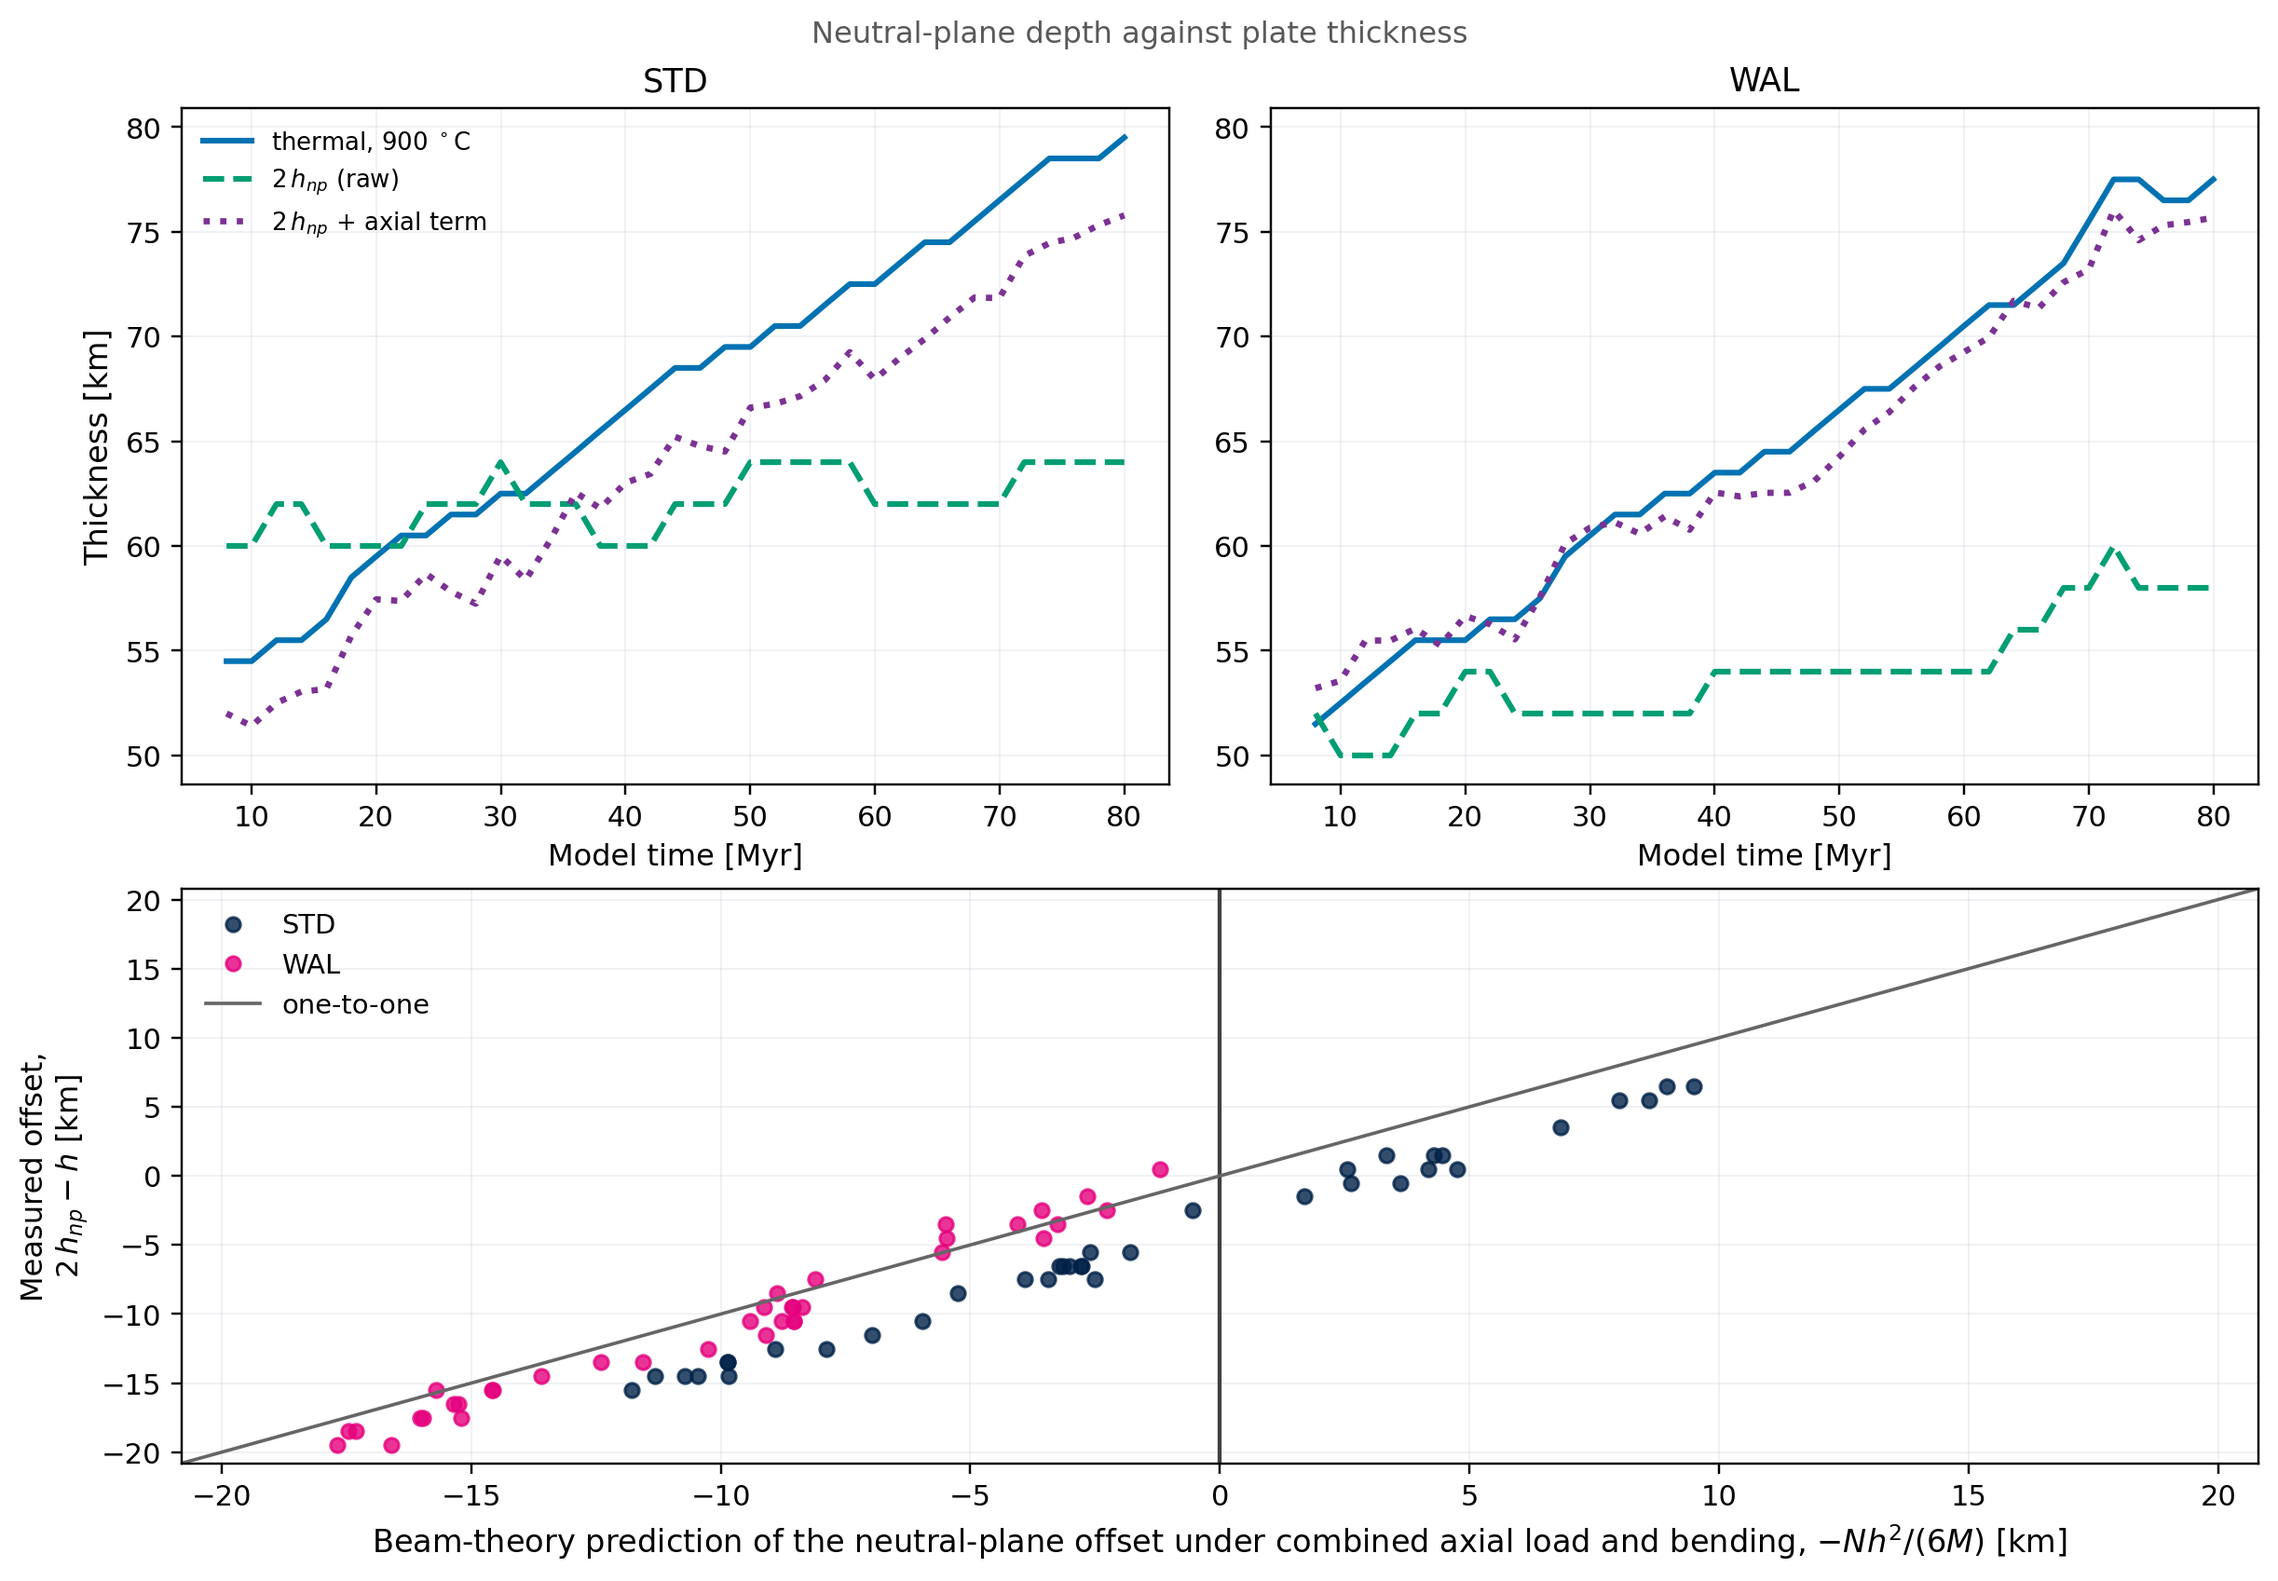
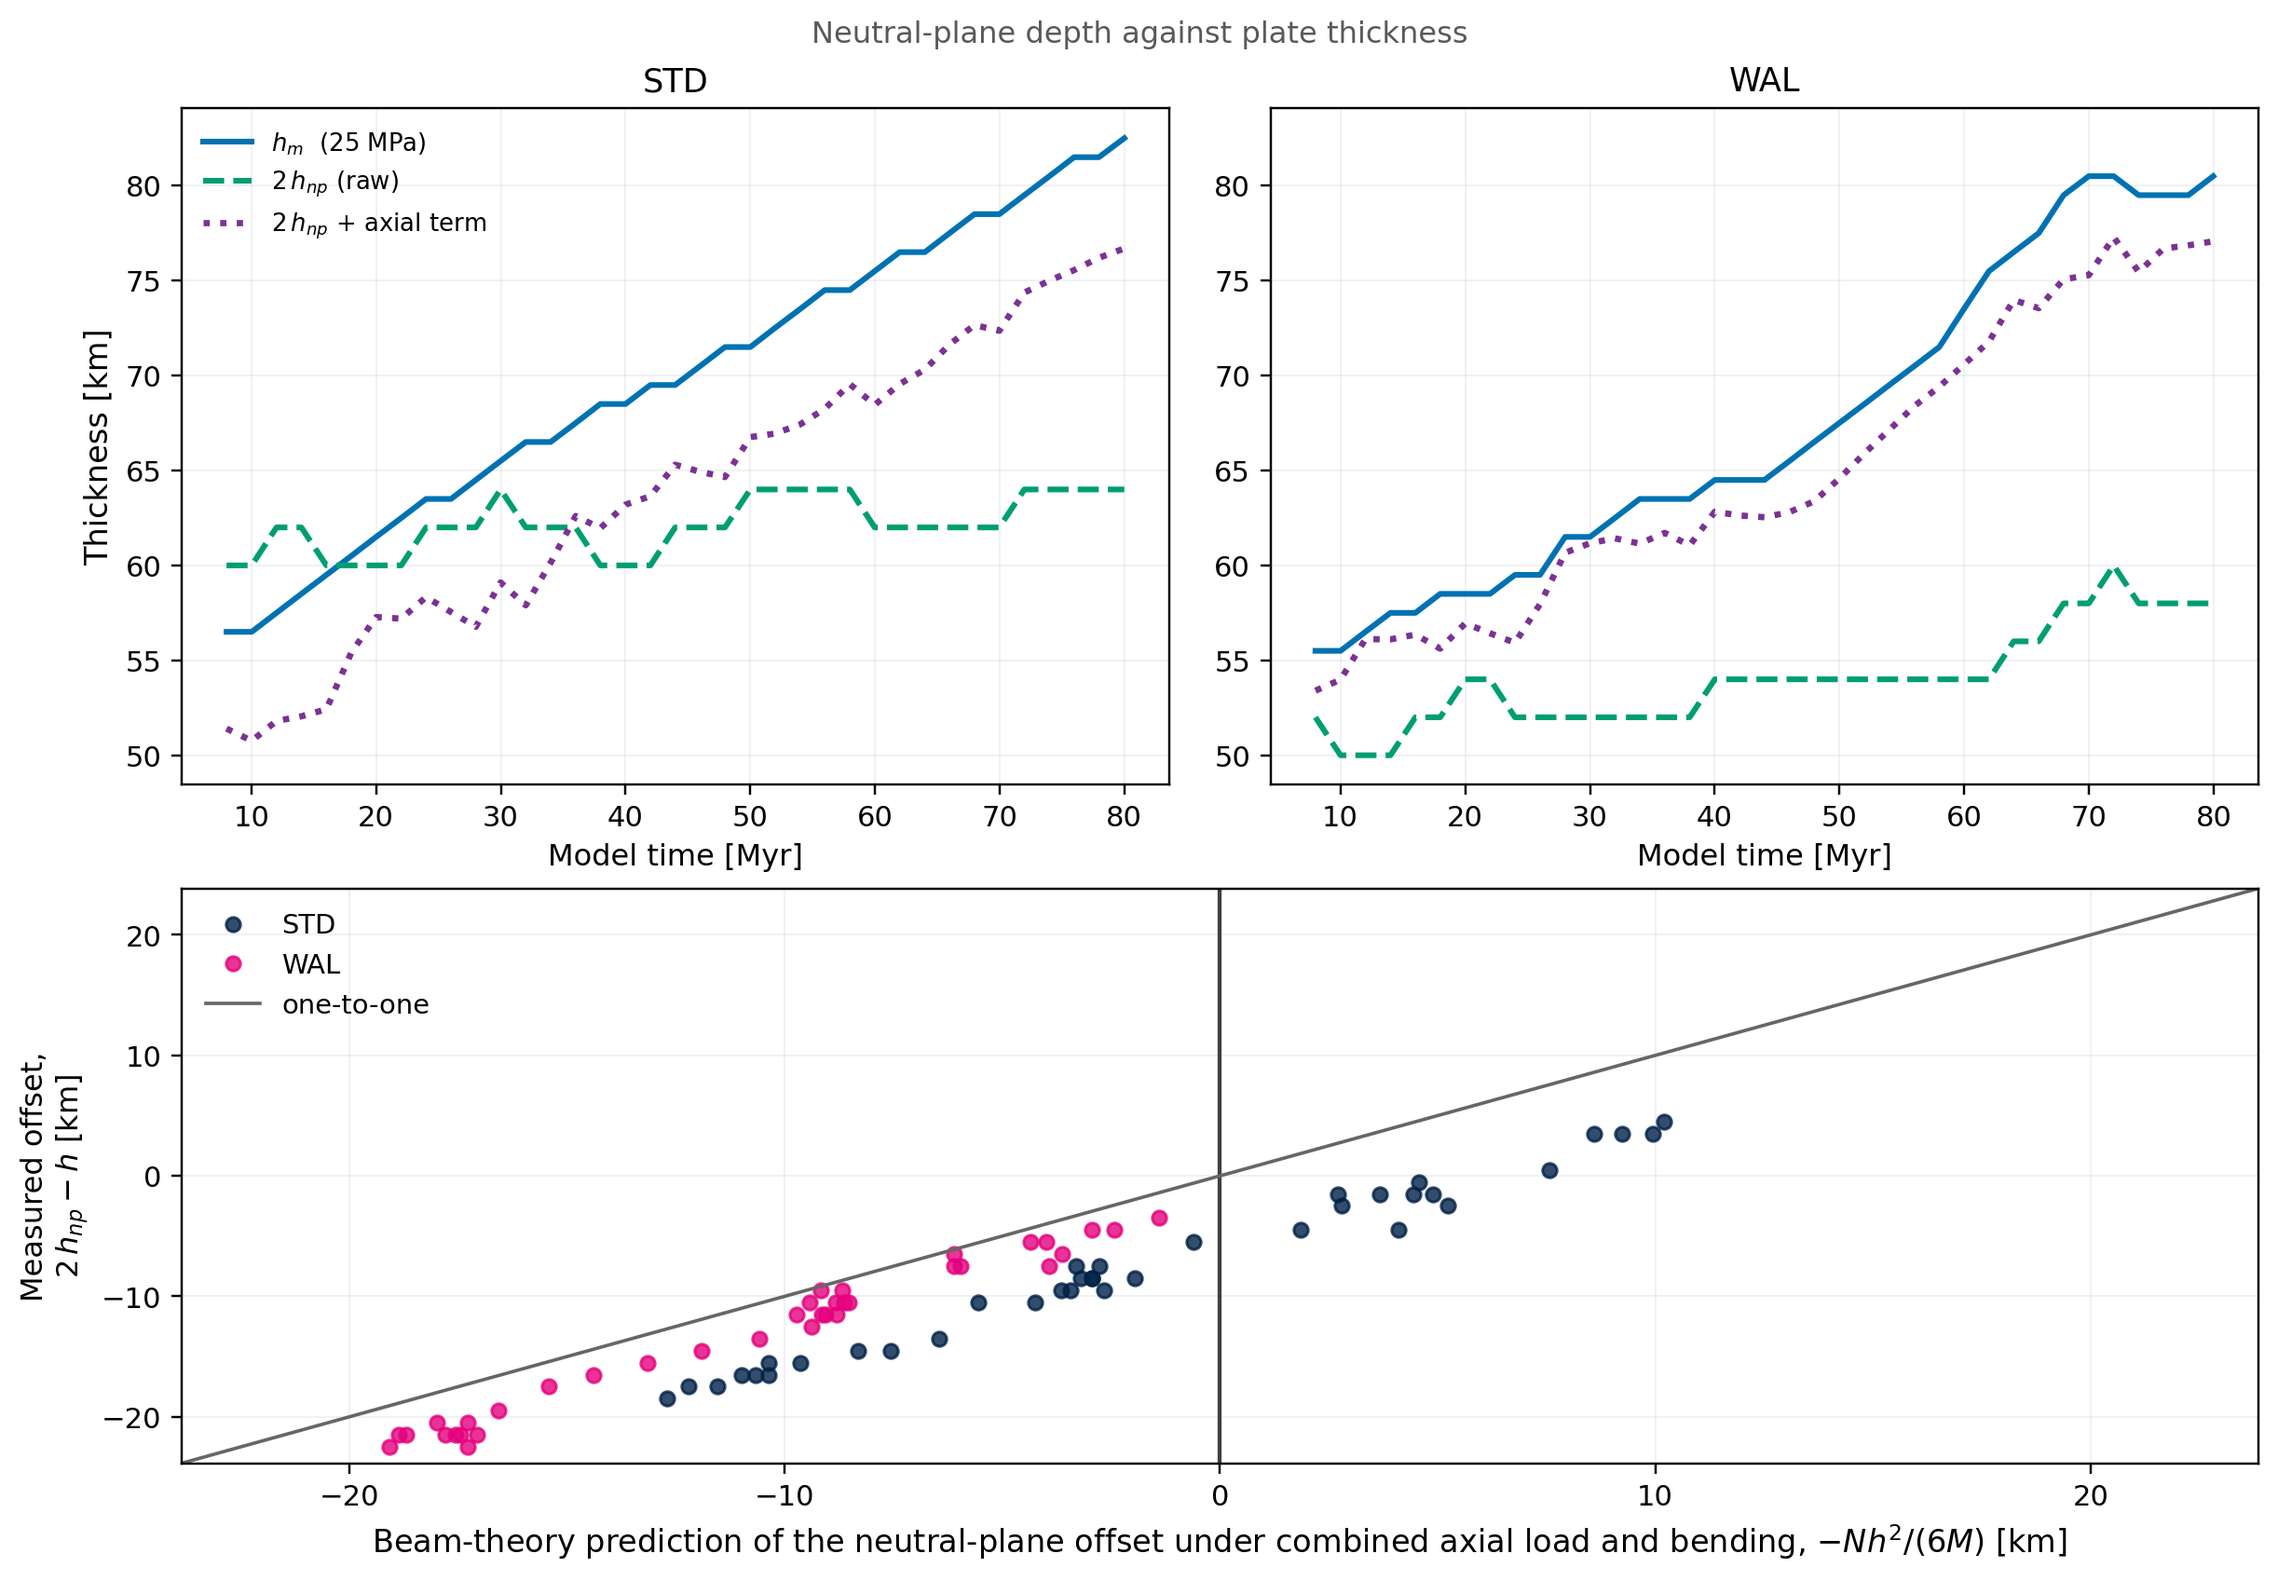
fig_neutral_plane: the beam correction uses h_m, not the 900 C isotherm
Dan, 2026-10-15. Beam theory's h is the thickness of the section that
CARRIES the fibre stress -- M = B h^3/12 is an integral of
sigma_xx - sigma_zz -- so h must be the mechanically strong layer, not an
isotherm. Three reasons the isotherm was wrong here:

  - h_m (25 MPa) is the paper's own adopted definition, used everywhere
    else in the manuscript;
  - the 900 C base is CALIBRATED to that cap at mid-run (conventions
    5.2), so it is a PROXY for h_m rather than an independent thickness.
    It imported calibration error without buying independence, which is
    why the thermal version undershot;
  - with h_m every quantity in the relation comes from the same stress
    field at the same column, which is what the theory assumes.

Measured: the corrected trend now recovers h_m to +0.00 km/10 Myr in STD
(was -0.19 against the thermal curve) and -0.34 in WAL (was -0.40).

ALSO FIXES AN ARITHMETIC ERROR the SI inherited. The tabulated axial term
came from , the h-FROZEN diagnostic used for the correlation check,
while the corrected curve uses per-snapshot h. The three trends therefore
did not add: the SI stated raw 1.04 + axial 1.18 = corrected 3.26 for
WAL, which is false. The term now comes from , the quantity
actually added back, so raw - axial = corrected exactly (0.45 + 3.12 =
3.57; 1.04 + 2.44 = 3.48). The console print took the stale value too
and now matches the table.

diff --git a/scripts/fig_neutral_plane.py b/scripts/fig_neutral_plane.py
@@ -56,13 +56,13 @@ neutral plane as a mechanical thickness -- including the h/2 dipole
 scaling in fig_mechanical_thickness -- this correction applies.
 
   1, 2  the three quantities through time, one panel per model: the
-        thermal thickness, the raw neutral-plane estimate, and the
+        mechanical thickness $h_m$, the raw neutral-plane estimate, and the
         neutral-plane estimate with the axial term added back, which
-        should recover the thermal curve if the relation holds.
+        should recover the $h_m$ curve if the relation holds.
   3     the test: measured offset against beam prediction, with the
         one-to-one line.
 
-DRAFT CAPTION. (a, b) The thermal thickness of the plate (900 C isotherm),
+DRAFT CAPTION. (a, b) The mechanical thickness $h_m$ of the plate (900 C isotherm),
 twice the neutral-plane depth, and twice the neutral-plane depth corrected
 for the axial load by adding N h^2/(6 M), for STD and WAL. All three are
 evaluated at the column of maximum bending moment, with N the
@@ -70,7 +70,7 @@ normal-stress-difference resultant and M the bending moment there. The raw
 neutral-plane estimate grows by 0.5 and 1.1 km per 10 Myr while the
 thermal estimate grows by 3.5 and 3.7; the corrected estimate recovers the
 thermal trend. (c) The measured offset of the neutral-plane estimate from
-the thermal thickness against the offset predicted by beam theory for a
+the mechanical thickness $h_m$ against the offset predicted by beam theory for a
 plate under combined axial load and bending, one point per snapshot, with
 the one-to-one line. The axes are symmetric about zero and the $x = 0$
 line is drawn: the predicted offset is negative -- a compressional axial
@@ -114,7 +114,19 @@ def parts(d, key):
     nd = cpc.integrate_to_zc(d[f'{key}_sxx_M'] - d[f'{key}_szz_M'], z,
                              ZC, axis=1)
     mom = d[f'{key}_M_max']
-    h, np2 = r['thermal'], r['np2']
+    # h_m, NOT THE 900 C ISOTHERM (Dan, 2026-10-15). Beam theory's h is the
+    # thickness of the section that CARRIES the fibre stress: M = B h^3/12
+    # is an integral of sigma_xx - sigma_zz, so h must be the mechanically
+    # strong layer. Three reasons the isotherm was the wrong choice:
+    #   - h_m (25 MPa) is the paper's own adopted definition;
+    #   - the 900 C base is CALIBRATED to that cap at mid-run (conventions
+    #     5.2), so it is a PROXY for h_m, not an independent thickness --
+    #     it imports calibration error without buying independence;
+    #   - with h_m every quantity in the relation comes from the same
+    #     stress field at the same column, which is what the theory assumes.
+    # Measured: the corrected trend then recovers h_m to +0.01 km/10 Myr in
+    # STD (was -0.19 against the $h_m$ curve) and -0.34 in WAL (was -0.40).
+    h, np2 = r['yield_cap'], r['np2']
     pred = -nd * h ** 2 / (6.0 * mom)          # beam offset, 2h_np - h
     return dict(t=t, m=t >= T_MIN_MYR, h=h, np2=np2, nd=nd, mom=mom,
                 pred=pred, res=np2 - h, corr=np2 - pred)
@@ -133,7 +145,7 @@ def main():
         t, m = p['t'], p['m']
         ax = axes[col]
         ax.plot(t[m], p['h'][m] / 1e3, '-', color=C_TH, lw=2.0,
-                label='thermal, 900 $^\\circ$C')
+                label=r'$h_m$  (25 MPa)')
         ax.plot(t[m], p['np2'][m] / 1e3, '--', color=C_NP, lw=2.0,
                 label=r'$2\,h_{np}$ (raw)')
         ax.plot(t[m], p['corr'][m] / 1e3, ':', color=C_CORR, lw=2.2,
@@ -166,9 +178,11 @@ def main():
         s_pool = np.polyfit(pv, rs, 1)[0]
         s_small = np.polyfit(pv[lo_], rs[lo_], 1)[0]
         s_large = np.polyfit(pv[hi_], rs[hi_], 1)[0]
-        print(f'{key}: trends/10 Myr  thermal {sl(p["h"]):+.2f}, 2h_np raw '
+        # the printed axial term is `pred`, the same one the table carries
+        # and the same one that is added back -- NOT the h-frozen `pf`
+        print(f'{key}: trends/10 Myr  h_m {sl(p["h"]):+.2f}, 2h_np raw '
               f'{sl(p["np2"]):+.2f}, corrected {sl(p["corr"]):+.2f} km;  '
-              f'axial term {np.polyfit(t[m], pf, 1)[0]*10/1e3:+.2f};  '
+              f'axial term {sl(p["pred"]):+.2f};  '
               f'beam slope pooled {s_pool:.2f} (small {s_small:.2f}, large '
               f'{s_large:.2f});  h-frozen check: r(detrended) '
               f'{np.corrcoef(ld(rs), ld(pf))[0, 1]:+.2f}')
@@ -217,8 +231,14 @@ def main():
             (key, 'trend_thermal_km_per_10Myr', f'{sl(p["h"]):.2f}'),
                  (key, 'trend_2hnp_raw_km_per_10Myr', f'{sl(p["np2"]):.2f}'),
                  (key, 'trend_2hnp_corrected_km_per_10Myr', f'{sl(p["corr"]):.2f}'),
+                 # FROM `pred`, NOT `pf` (Dan, 2026-10-15). This was taken
+                 # from the h-FROZEN diagnostic while the corrected curve
+                 # uses per-snapshot h, so the three trends did not add:
+                 # the SI read 1.04 + 1.18 = 3.26 for WAL, which is false.
+                 # `pred` is the term actually added back, so raw - this
+                 # equals corrected exactly.
                  (key, 'trend_axial_term_km_per_10Myr',
-                  f'{np.polyfit(t[m], pf, 1)[0]*10/1e3:.2f}'),
+                  f'{sl(p["pred"]):.2f}'),
                  (key, 'nd_at_max_moment_median_TNm',
                   f'{np.median(p["nd"][m])/1e12:.3f}'),
                  (key, 'nd_at_max_moment_trend_TNm_per_10Myr',
